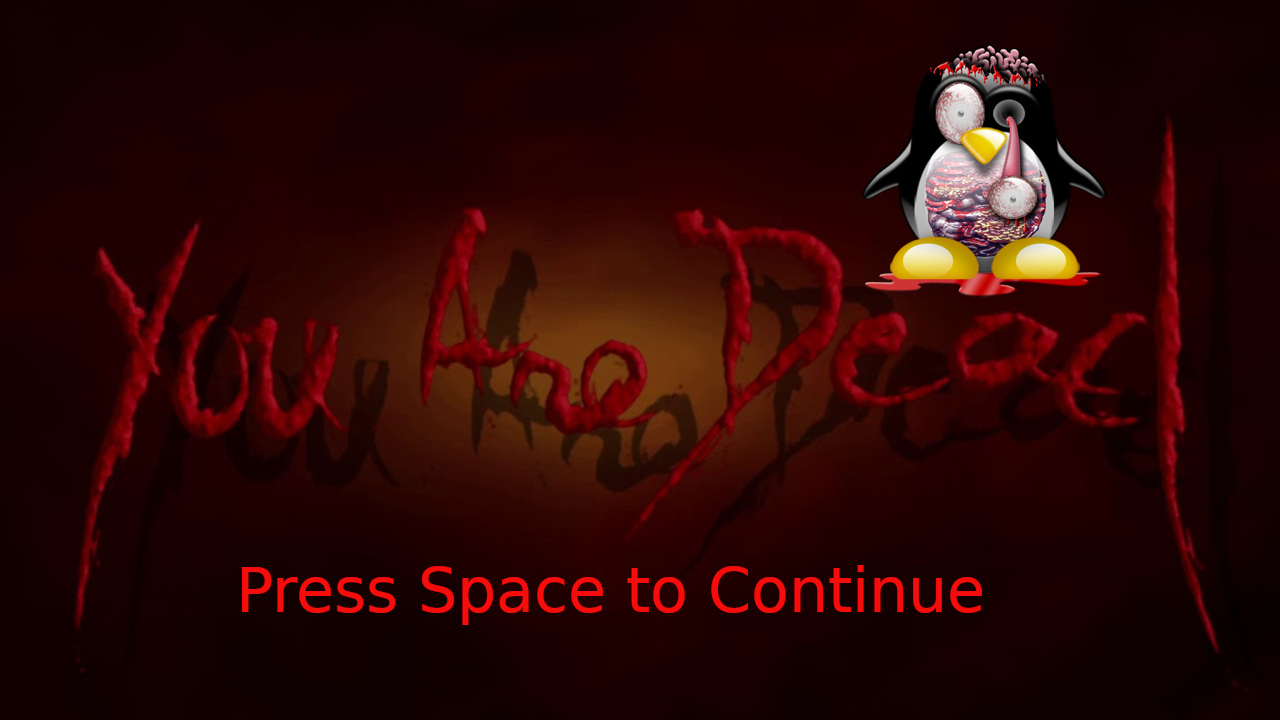
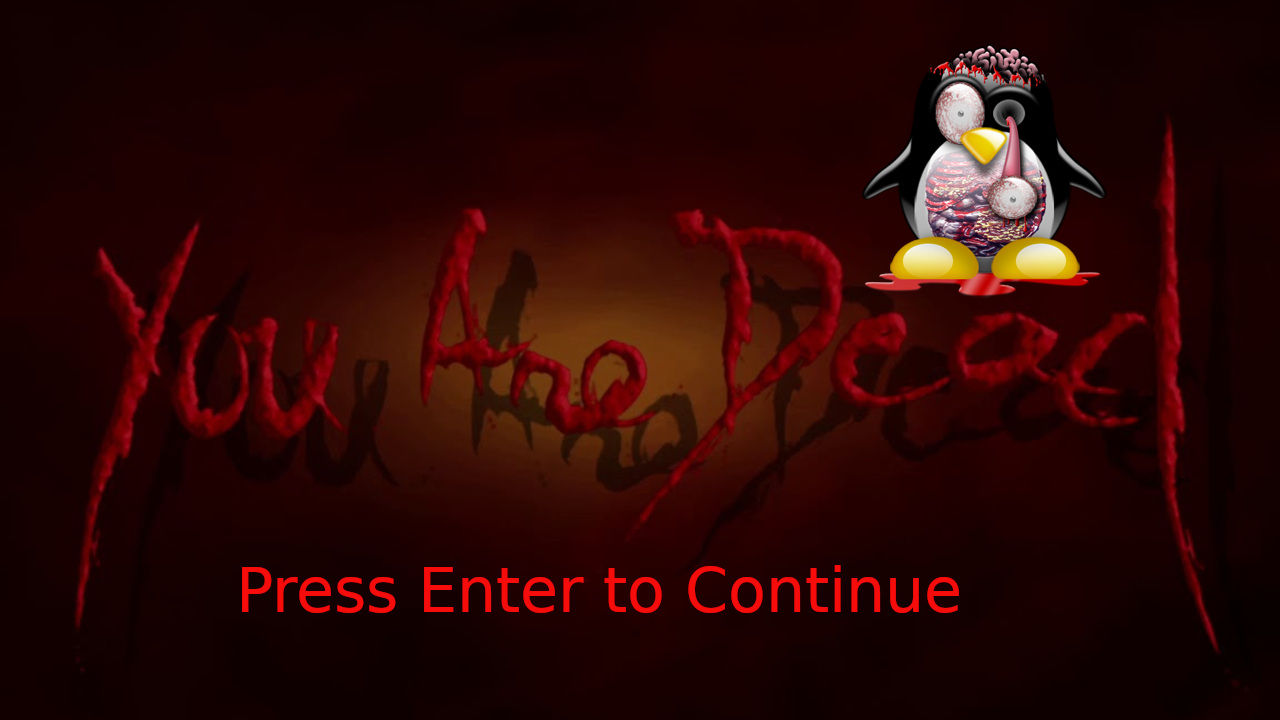
Added scoring, slightly improved Game Over screen

Changed region(s): [[0.3125, 0.7639, 0.7812, 0.8556]]

diff --git a/SuperTux Python Adventures/main.py b/SuperTux Python Adventures/main.py
@@ -4,6 +4,12 @@ import pygame
 from sys import exit
 
 
+def display_score():
+    current_time = pygame.time.get_ticks() - start_time
+    score_surf = test_font.render(f'{current_time}',False,'Yellow')
+    score_rect = score_surf.get_rect(center = (1100, 50))
+    screen.blit(score_surf,score_rect)
+
 pygame.init()
 screen = pygame.display.set_mode((1200,800))
 pygame.display.set_caption('Super Tux Python World')
@@ -11,6 +17,7 @@ clock = pygame.time.Clock()
 test_font = pygame.font.Font('fonts/Pixeltype.ttf', 69)
 game_active = True
 fps = 60
+start_time = 0
 
 pygame.mixer.music.load('music/instrumental.mp3')
 pygame.mixer.music.play(-1)
@@ -35,6 +42,7 @@ while True:
     if game_active:
         screen.blit(bg_surface,(0,0))
         screen.blit(text_surface,(250,150))
+        display_score()
 
         snail_rect.x -= snail_speed
         if snail_rect.right <= 0: 
@@ -63,14 +71,15 @@ while True:
     else:
         pygame.mixer.music.stop()
         gameover_img = pygame.image.load('images/gameover/gameoverscreen.jpg')
-        screen.blit(gameover_img,(0,0))
+        screen.blit(gameover_img,(0,80))
         keys = pygame.key.get_pressed()
-        if keys[pygame.K_SPACE]:
+        if keys[pygame.K_RETURN]:
             game_active = True
             snail_rect.left = 1200
             tux_rect.left = 50
             pygame.mixer.music.play(-1)
             snail_speed = 4
+            start_time = pygame.time.get_ticks()
 
     pygame.display.update()
     clock.tick(fps)
